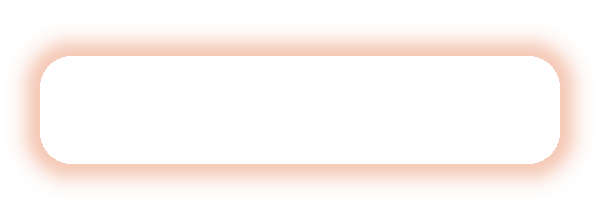
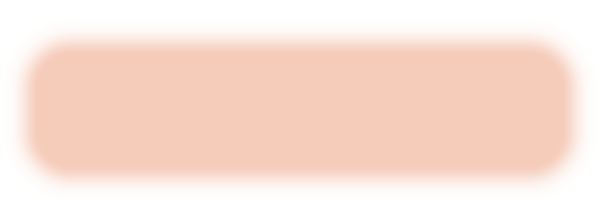
Mail: halo continuous under the button, docs

diff --git a/web/tools/make_mail_images.py b/web/tools/make_mail_images.py
@@ -134,7 +134,7 @@ def button_glow(name, palette, size=(600, 200), button=(520, 108)):
     def shade(x, y):
         distance = box_distance(x, y, left, top + 10, left + bw, top + bh + 10, 32)
         if distance <= 0:
-            return (*accent, 0.0)
+            return (*accent, 0.42)  # continuous with the halo, the rounded corners of the button show no box
         return (*accent, 0.42 * math.exp(-(distance / 18) ** 2))
 
     return name, width, height, render(width, height, shade, samples=1)

diff --git a/PROJEKT.md b/PROJEKT.md
@@ -784,7 +784,7 @@ Neueste zuerst. Die Einträge sind vom 07. bis 13.11.2026; jeder Eintrag ist ein
 
 | Branch | Was sich geändert hat |
 |---|---|
-| `mail-glass` (15.11.2026, Janis; keine Migration) | **Glas und Glow in Mails, robust gegen Umfärben.** Mailprogramme können weder Unschärfe noch Schatten noch oft Verläufe; Janis sah nur eine flache Fassung. Neu: Lichtkante, runde Ecken (Kopf und Fuß der Karte), Glanz und Halo des Knopfs und die Farbfelder hinter der Karte sind **Bilder** (`static/mail/*.png`, je Hell und Dunkel, Mindestgröße doppelt für scharfe Bildschirme, gezeichnet von `web/tools/make_mail_images.py` nur mit der Standardbibliothek, per `HUB_BASE_URL` öffentlich abrufbar). Sie liegen als Überlagerung mit Transparenz über festen Farben: blockiert ein Programm Bilder, bleibt die Mail flach, aber vollständig. Outlook für Windows bekommt keine Bilder, sondern flache Karte und einen **VML-Knopf** (Verlauf, runde Ecken). Gegen Umfärben: jede Zelle mit ausdrücklichen Farben, kein reines Weiß oder Schwarz, `color-scheme` (Meta und CSS), `[data-ogsc]`/`[data-ogsb]` für Outlook.com und seine Apps; was die Gmail-App von sich aus umkehrt, lässt sich nicht abschalten. Die Mail folgt weiter dem zuletzt gesehenen Stil des Nutzers. Verworfen: alles als ein großes Bild (kein Text, nicht barrierefrei), immer hell mit Umschalten nur über `prefers-color-scheme` (Hell und Dunkel sollen beide Ziele bleiben). Tests: Bilder je Stil, flache Mail ohne `HUB_BASE_URL`, VML und Umfärbe-Regeln. **Am Bildschirm im Browser geprüft, in Outlook, Yahoo und Gmail ungeprüft** (Testmails von Janis nötig). |
+| `mail-glass` (15.11.2026, Janis; keine Migration) | **Glas und Glow in Mails, robust gegen Umfärben.** Mailprogramme können weder Unschärfe noch Schatten noch oft Verläufe; Janis sah nur eine flache Fassung. Neu: Lichtkante, runde Ecken (Kopf und Fuß der Karte), Glanz und Halo des Knopfs und die Farbfelder hinter der Karte sind **Bilder** (`static/mail/*.png`, je Hell und Dunkel, Mindestgröße doppelt für scharfe Bildschirme, gezeichnet von `web/tools/make_mail_images.py` nur mit der Standardbibliothek, per `HUB_BASE_URL` öffentlich abrufbar). Sie liegen als Überlagerung mit Transparenz über festen Farben: blockiert ein Programm Bilder, bleibt die Mail flach, aber vollständig. Outlook für Windows bekommt keine Bilder, sondern flache Karte und einen **VML-Knopf** (Verlauf, runde Ecken). Gegen Umfärben: jede Zelle mit ausdrücklichen Farben, kein reines Weiß oder Schwarz, `color-scheme` (Meta und CSS), `[data-ogsc]`/`[data-ogsb]` für Outlook.com und seine Apps; was die Gmail-App von sich aus umkehrt, lässt sich nicht abschalten. Die Mail folgt weiter dem zuletzt gesehenen Stil des Nutzers. Verworfen: alles als ein großes Bild (kein Text, nicht barrierefrei), immer hell mit Umschalten nur über `prefers-color-scheme` (Hell und Dunkel sollen beide Ziele bleiben). Tests: Bilder je Stil, flache Mail ohne `HUB_BASE_URL`, VML und Umfärbe-Regeln. **Nachbesserung am selben Tag nach Janis’ Yahoo-Test (iPhone, Hell und Dunkel):** Yahoo färbt im Dunkelmodus Flächen von selbst um, Bilder aber nicht; die gefüllten Kartenenden blieben hell. Seitdem sind die Enden reine Überlagerungen ohne Füllung (Rand, Lichtkante, Glanz), die Füllung kommt von der Zellenfarbe und wird mit umgefärbt; auch die Zelle um den Knopf trägt die Kartenfarbe, der Halo ist nicht mehr abgeschnitten. Wichtig: Eine Mail im Spam zeigt Yahoo ohne Bilder und ohne Links; die Darstellung bei gesperrten Bildern ist darum der Normalfall bis die Zustellung stimmt. **Spam bleibt offen** (DMARC `p=none` ist gesetzt, SPF und DKIM stehen; Ursache nur aus dem Original der Mail ablesbar). |
 | `roadmap-reset` (15.11.2026, nur Doku) | **Fahrplan neu geordnet.** Abschnitt 11a hat oben einen Fahrplan in Stufen 0 bis 7 (Janis-Aufgaben, echten Betrieb prüfen, Agenten sichtbar machen, Dateiablage vollenden, Geräte, Rechte und Modelle, Livegang-Checkliste, später); die alte Reihenfolge bleibt als Nachschlagewerk. Abgleich mit Merkliste, Abschnitt 11, 11b, KONZEPT-AGENTEN.md und DESIGN.md; veraltete Stellen markiert. |
 | `prune-deploy-copies` (15.11.2026, Janis) | **Deploy-Kopien nach 35 Tagen löschen.** `deploy/backup.sh` Schritt 7: `find` in `DEPLOY_COPIES` (Standard `/opt/agent-hub/backups`), nur Dateien, älter als `KEEP_COPY_DAYS` (35, so lange wie die nächtlichen Backups halten), nur nach einem gelungenen Backup. Grund: Auch dort blieben Daten gelöschter Konten liegen (71 Kopien seit 07.11.2026). Verworfen: ein eigener Cron-Eintrag für `admin` (stünde nicht im Repo, ginge bei einer Wiederherstellung verloren). Probe auf dem Pi in Wegwerf-Ordnern mit eigenem Passwort. Vorher am selben Tag gelöscht (Janis: Ja): die alten Kopien `data/hub.db.bak-before-board`, `-dashboard`, `-pages`. **Offen:** Janis installiert das Skript neu (`sudo install -m 700 /opt/agent-hub/workspaces/agent-hub/deploy/backup.sh /usr/local/sbin/agent-hub-backup`). |
 | `pin-claude-code`, `web-nonroot`, `mail-outlook` (15.11.2026, Freigabe Janis, Backup `hub-2026-11-15-before-web-nonroot.db`; 453 Web-Tests grün, als eigener Benutzer gelaufen; live geprüft: `/health` ok, Web als 9000, 256 MB, Datenbank und Dateiordner beschreibbar, keine Datei mehr root) | **Offene Befunde der Durchsicht.** (1) **Claude Code fest auf 2.1.319** im Agenten-Image (`runner/Dockerfile`, `install.sh` mit Version; die bisher gebaute Version, Bau auf dem Pi geprüft). Eine neue Version erst auf einem Branch probieren, wie bei Vibe. (2) **Web-Container als Benutzer 9000** (`compose.yml`: `user`, `cap_drop: [ALL]`, `no-new-privileges`, `mem_limit: 256m`; im Betrieb braucht er rund 45 MB). `data/` gehört jetzt 9000 (beim Deploy einmal umgestellt, `restore.sh` stellt es beim Wiederherstellen ein). Die Testbefehle laufen mit `-u "$(id -u):$(id -g)"`, damit sie in ihren leeren Ordner schreiben können (so auch `~/t.sh` und `~/inttest.sh` im Home des Pi). Der Pi hat 905 MB Arbeitsspeicher; im Betrieb belegen Web rund 45 MB, Runner, Proxy und Tunnel je rund 15 bis 18 MB. Verworfen: der Benutzer fest im Image (dann liefen auch die Tests als 9000), ein schreibgeschütztes Dateisystem (Uploads schreiben Zwischendateien nach `/tmp`, ein Ordner im Arbeitsspeicher wäre auf dem Pi zu knapp). **Rückweg:** die vier Zeilen in `compose.yml` entfernen und `data/` wieder root geben. (3) **Mails für Outlook:** Outlook für Windows nimmt nur die erste Schrift einer Liste und fällt sonst auf Times zurück; ein Block nur für Outlook setzt Arial und 96 dpi (sonst skaliert es die Mail), jede Textzelle trägt die Schrift selbst, iOS vergrößert die Schrift nicht mehr. **Alte Projekt-Ordner:** gibt es nicht; auf dem Pi liegt nur das Repo von Projekt 1. **Mistral:** „Mistral Code“ ist in Mistral Vibe aufgegangen (Abschnitt 3), ein Umbau ist nicht nötig. Ungeprüft: Mails in Outlook, Yahoo und Gmail. |
